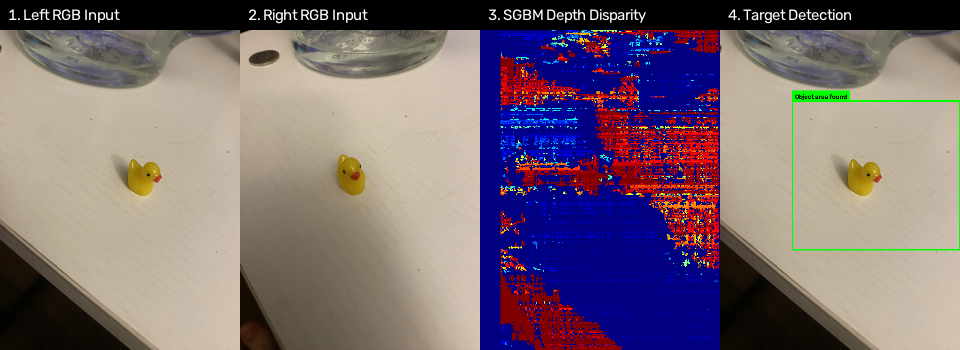
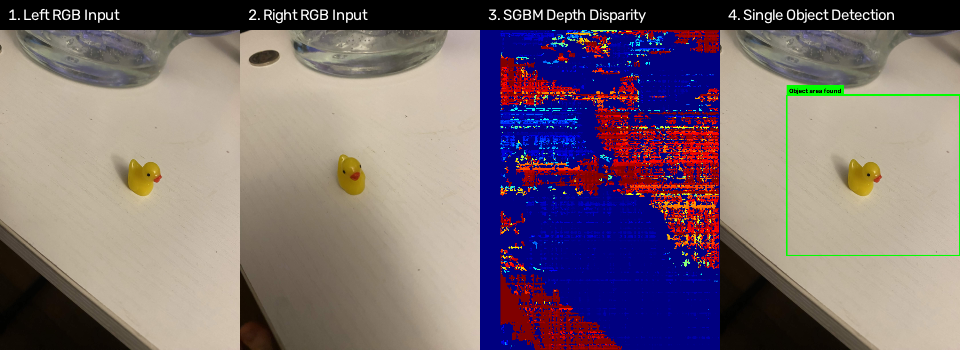
docs: update README demo examples for duck and plush pairs

Changed region(s): [[0.8125, 0.2286, 1.0, 0.3143], [0.8125, 0.6857, 1.0, 0.7429], [0.75, 0.0286, 0.9375, 0.0571]]

diff --git a/README.md b/README.md
@@ -21,10 +21,13 @@ A two-stage computer vision & sensor fusion pipeline designed to isolate objects
 
 ## Pipeline Visual Demonstrations
 
-### Example 1: Yellow Duck Stereo Pair (Desk Setup)
+### Example 1: Yellow Duck Stereo Pair (Single Object)
 ![Yellow Duck Stereo Pair Demo](images/demo_duck.png)
 
-### Example 2: 3D Plush Character Stereo Pair (Multi-Object Scene)
+### Example 2: Primary object detection (Multi-Object Scene)
+![Primary Object Detection Demo](images/demo_plush.png)
+
+### Example 3: Plush & Card Stereo Pair (Multi-Object Scene)
 ![Plush Character Stereo Pair Demo](images/demo_plush.png)
 
 ---
